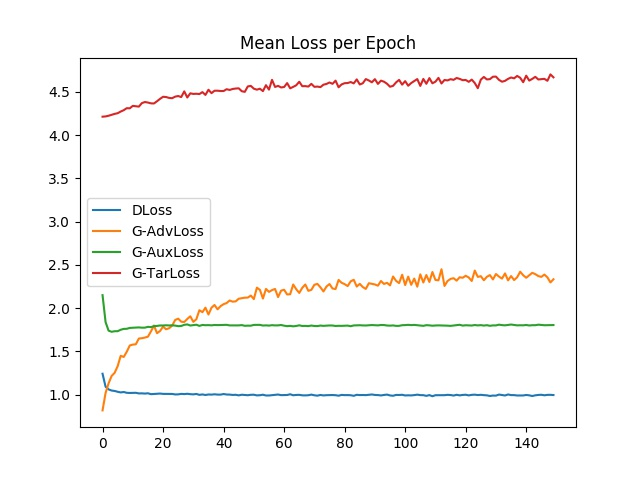
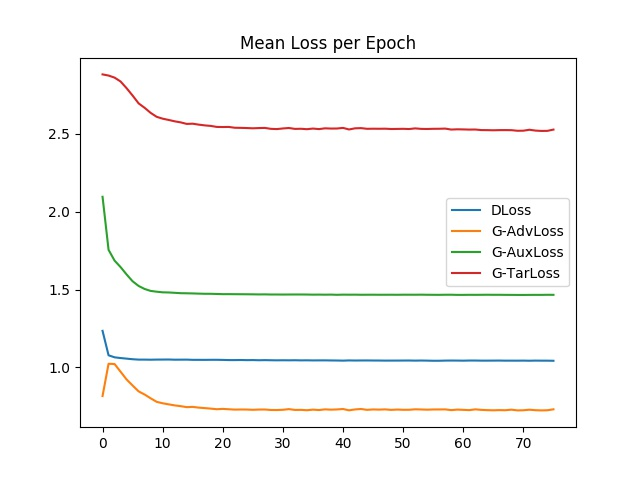
Added argparsing to utils, various other changes.

diff --git a/training/ATACGAN_MNIST.py b/training/ATACGAN_MNIST.py
@@ -23,16 +23,15 @@ from models import LeNet5
 
 
 # Argument Parsing
-
-parser = argparse.ArgumentParser("ATAC-GAN MNIST")
+#TBD
 
 
 # Config
 
 cuda = True
 
-n_epochs=150
-batch_size=32
+n_epochs=500
+batch_size=24
 lr=0.0002
 b1=0.5
 b2=0.999
@@ -40,37 +39,38 @@ latent_dim=200
 n_classes=10
 img_size=28
 channels=1
-save_interval=500
-print_interval=500
-sample_interval=500
+save_interval=2000
+print_interval=2000
+sample_interval=2000
 
 output_dir="../output/MNIST-" + str(torch.random.initial_seed())
 
 d_real_loss_coeff = 0.7
 d_fake_loss_coeff = 0.3
 
-g_adv_loss_coeff = 2
+g_adv_loss_coeff = 3
 g_aux_loss_coeff = 1
 g_tar_loss_coeff = 1
 
-g_tar_loss_sigm_scalar = 10
+g_tar_loss_adv_sigm_scalar = 50
+g_tar_loss_aux_sigm_scalar = 50
 
 # target classifier conditional constants
-adv_loss_threshold = 0.8
-aux_loss_threshold = 1.47
+adv_loss_threshold = 1.12
+aux_loss_threshold = 1.475
 
 
 # Util
 
 def load_LeNet5():
     net = LeNet5()
-    
+
     # remove map location = cpu if using cuda
     net.load_state_dict(torch.load("../utils/models/trained_lenet5.pkl", map_location=torch.device('cpu')))
-    
+
     # set model to eval mode so nothing is changed
     net.eval()
-    
+
     return net
 
 def init_weights(m):
@@ -80,7 +80,7 @@ def init_weights(m):
     elif classname.find("BatchNorm2d") != -1:
         torch.nn.init.normal_(m.weight.data, 1.0, 0.02)
         torch.nn.init.constant_(m.bias.data, 0.0)
-    
+
 
 # Models
 
@@ -150,7 +150,7 @@ class Discriminator(nn.Module):
         label = self.aux_layer(out)
 
         return validity, label
-    
+
 if __name__ == "__main__":
     # Loss functions
 
@@ -168,7 +168,7 @@ if __name__ == "__main__":
     discriminator.apply(init_weights)
 
     target_classifier = load_LeNet5()
-    
+
     optimizer_G = torch.optim.Adam(generator.parameters(), lr=lr, betas=(b1, b2))
     optimizer_D = torch.optim.Adam(discriminator.parameters(), lr=lr, betas=(b1, b2))
 
@@ -183,15 +183,15 @@ if __name__ == "__main__":
         target_classifier = target_classifier.cuda()
         target_classifier_loss = target_classifier_loss.cuda()
 
-    
+
     # Set max value for tar loss
+
     pred_label = Variable(FloatTensor([[-99999, 99999, 99999, 99999, 99999, 99999, 99999, 99999, 99999, 99999]]), requires_grad=False)
     tar_label = Variable(LongTensor([0]), requires_grad=False)
-    g_tar_loss_max = target_classifier_loss(F.softmax(pred_label, dim=1), tar_label) * 1.2
+    g_tar_loss_max = target_classifier_loss(F.softmax(pred_label, dim=1), tar_label)
     print(g_tar_loss_max)
-    # Set sigmoid scalar to tar_loss_max / 5 if not set (or similar)
-    #tar_loss_sigm_scalar = tar_loss_max / 5
-        
+
+
     # Configure data loader
 
     os.makedirs("../data/mnist", exist_ok=True)
@@ -213,6 +213,33 @@ if __name__ == "__main__":
 
     os.mkdir(output_dir)
     os.mkdir(output_dir + "/images")
+
+    f = open(output_dir + '/constants.txt', 'a')
+    f.write("cuda: {}\n".format(cuda))
+    f.write("batch_size: {}\n".format(batch_size))
+    f.write("lr: {}\n".format(lr))
+    f.write("adam_b1: {}\n".format(b1))
+    f.write("adam_b2: {}\n".format(b2))
+    f.write("latent_dim: {}\n".format(latent_dim))
+    f.write("n_classes: {}\n".format(n_classes))
+    f.write("img_size: {}\n".format(img_size))
+    f.write("channels: {}\n".format(channels))
+    f.write("save_interval: {}\n".format(save_interval))
+    f.write("print_interval: {}\n".format(print_interval))
+    f.write("sample_interval: {}\n".format(sample_interval))
+    f.write("output_dir: {}\n".format(output_dir))
+    f.write("d_real_loss_coeff: {}\n".format(d_real_loss_coeff))
+    f.write("d_fake_loss_coeff: {}\n".format(d_fake_loss_coeff))
+    f.write("g_adv_loss_coeff: {}\n".format(g_adv_loss_coeff))
+    f.write("g_aux_loss_coeff: {}\n".format(g_aux_loss_coeff))
+    f.write("g_tar_loss_coeff: {}\n".format(g_tar_loss_coeff))
+    f.write("g_tar_loss_adv_sigm_scalar: {}\n".format(g_tar_loss_adv_sigm_scalar))
+    f.write("g_tar_loss_aux_sigm_scalar: {}\n".format(g_tar_loss_aux_sigm_scalar))
+    f.write("g_tar_loss_max: {}\n".format(g_tar_loss_max))
+    f.write("adv_loss_threshold: {}\n".format(adv_loss_threshold))
+    f.write("aux_loss_threshold: {}\n".format(aux_loss_threshold))
+    f.close()
+
     f = open(output_dir + '/log.csv', 'a')
     log_writer = csv.writer(f, delimiter=',')
     log_writer.writerow(['Epoch', 'Batch', 'DLoss', 'DRealLoss', 'DRealAdvLoss', 'DRealAuxLoss', 'DFakeLoss', 'DFakeAdvLoss', 'DFakeAuxLoss', 'DValidReal', 'DValidFake', 'DAccReal', 'DAccFake', 'TAcc', 'GLoss', 'GAdvLoss', 'GAuxLoss', 'GTarLossRaw', 'GTarLossWeight', 'GTarLoss'])
@@ -248,12 +275,12 @@ if __name__ == "__main__":
     running_g_tar_loss = 0.0
     running_g_tar_loss_weight = 0.0
     running_g_loss = 0.0
-    
-    
+
+
     # Train
-    
+
     for epoch in range(n_epochs):
-        
+
         for i, (imgs, labels) in enumerate(dataloader):
 
             batch_size = imgs.shape[0]
@@ -289,9 +316,9 @@ if __name__ == "__main__":
             g_adv_loss = g_adv_loss_coeff * adversarial_loss(d_validities, valid)
             g_aux_loss = g_aux_loss_coeff * auxiliary_loss(d_pred_labels, g_labels)
             g_tar_loss_raw = target_classifier_loss(t_pred_labels, g_target_labels)
-            g_tar_loss_weight = torch.sigmoid(g_tar_loss_sigm_scalar * (-g_adv_loss + adv_loss_threshold - g_aux_loss + aux_loss_threshold))
+            g_tar_loss_weight = torch.sigmoid(g_tar_loss_adv_sigm_scalar * (-g_adv_loss + adv_loss_threshold)) * torch.sigmoid(g_tar_loss_aux_sigm_scalar * (-g_aux_loss + aux_loss_threshold))
             g_tar_loss = g_tar_loss_coeff * g_tar_loss_max * (1 - g_tar_loss_weight) + g_tar_loss_weight * g_tar_loss_raw
-            
+
             # Total generator loss
             g_loss = g_adv_loss + g_aux_loss + g_tar_loss
             g_loss.backward()
@@ -320,12 +347,12 @@ if __name__ == "__main__":
             d_loss = d_real_loss_coeff * d_real_loss + d_fake_loss_coeff * d_fake_loss
             d_loss.backward()
             optimizer_D.step()
-            
-            
+
+
             # =========
             #  Logging
             # =========
-            
+
             # Track generator loss components
             running_g_adv_loss += g_adv_loss.item()
             running_g_aux_loss += g_aux_loss.item()
@@ -333,11 +360,11 @@ if __name__ == "__main__":
             running_g_tar_loss += g_tar_loss.item()
             running_g_tar_loss_weight += g_tar_loss_weight
             running_g_loss += g_loss.item()
-            
+
             # Track target accuracy
-            t_acc = np.mean(np.argmax(t_pred_labels.detach().cpu().numpy()) == g_labels.detach().cpu().numpy())
+            t_acc = np.mean(np.argmax(t_pred_labels.detach().cpu().numpy(), axis=1) == g_labels.detach().cpu().numpy())
             running_t_acc += t_acc
-            
+
             # Track discriminator loss
             running_d_real_loss += d_real_loss.item()
             running_d_fake_loss += d_fake_loss.item()
@@ -346,38 +373,38 @@ if __name__ == "__main__":
             running_d_adv_loss_fake += d_adv_loss_fake.item()
             running_d_aux_loss_fake += d_aux_loss_fake.item()
             running_d_loss += d_loss.item()
-            
+
             # Track dicriminator output
             d_validity_fake = np.mean(d_validities.detach().cpu().numpy())
             running_d_fake_validity += d_validity_fake
             d_validity_real = np.mean(real_pred.detach().cpu().numpy())
             running_d_real_validity += d_validity_real
-            
+
             # Track discriminator-classifier accuracy
-            d_acc_real = np.mean(np.argmax(real_aux.detach().cpu().numpy()) == labels.detach().cpu().numpy())
-            d_acc_fake = np.mean(np.argmax(fake_aux.detach().cpu().numpy()) == g_labels.detach().cpu().numpy())
+            d_acc_real = np.mean(np.argmax(real_aux.detach().cpu().numpy(), axis=1) == labels.detach().cpu().numpy())
+            d_acc_fake = np.mean(np.argmax(fake_aux.detach().cpu().numpy(), axis=1) == g_labels.detach().cpu().numpy())
             running_d_acc_real += d_acc_real
             running_d_acc_fake += d_acc_fake
 
             # Write to log file
-            log_writer.writerow([epoch, i, d_loss.item(), d_real_loss.item(), d_adv_loss_real.item(), d_aux_loss_real.item(), d_fake_loss.item(), d_adv_loss_fake.item(), d_aux_loss_fake.item(), d_validity_real, d_validity_fake, 100*d_acc_real, 100*d_acc_fake, 100*t_acc, g_loss.item(), g_adv_loss.item(), g_aux_loss.item(), g_tar_loss_raw.item(), g_tar_loss_weight, g_tar_loss.item()])
+            log_writer.writerow([epoch, i, d_loss.item(), d_real_loss.item(), d_adv_loss_real.item(), d_aux_loss_real.item(), d_fake_loss.item(), d_adv_loss_fake.item(), d_aux_loss_fake.item(), d_validity_real, d_validity_fake, 100*d_acc_real, 100*d_acc_fake, 100*t_acc, g_loss.item(), g_adv_loss.item(), g_aux_loss.item(), g_tar_loss_raw.item(), g_tar_loss_weight.item(), g_tar_loss.item()])
 
-            
+
             batches_done = epoch * len(dataloader) + i
-            
+
             # Save models
             if batches_done % save_interval == 0:
                 # Saves weights
                 torch.save(generator.state_dict(), output_dir + '/G')
                 torch.save(discriminator.state_dict(), output_dir + '/D')
-                
+
             # Print information
             if batches_done % print_interval == 0:
                 #TEMP
-                print("d_acc_real", d_acc_real)
-                print("d_acc_fake", d_acc_fake)
+                #print("d_acc_real", d_acc_real)
+                #print("d_acc_fake", d_acc_fake)
                 #END
-                
+
                 p = float(print_interval)
                 print("==============================")
                 print("Epoch %d/%d, Batch %d/%d" % (epoch, n_epochs, i, len(dataloader)))
@@ -388,7 +415,7 @@ if __name__ == "__main__":
                 print("G Loss: %f (Adv: %f, Aux: %f, Tar: %f)" % (running_g_loss / p, running_g_adv_loss / p, running_g_aux_loss  / p, running_g_tar_loss / p))
                 print("   Tar Raw: %f, Tar Weight: %f" % (running_g_tar_loss_raw / p, running_g_tar_loss_weight / p))
                 print("Tar Acc: %.2f%%" % (running_t_acc * 100 / p))
-                
+
                 running_d_real_validity = 0.0
                 running_d_fake_validity = 0.0
                 running_d_adv_loss_real = 0.0
@@ -407,7 +434,7 @@ if __name__ == "__main__":
                 running_g_tar_loss = 0.0
                 running_g_tar_loss_weight = 0.0
                 running_g_loss = 0.0
-                
+
             # Save sample images
             if batches_done % sample_interval == 0:
                 sample_image(n_row=10, batches_done=batches_done)

diff --git a/utils/test_MNIST_model_attack.py b/utils/test_MNIST_model_attack.py
@@ -1,0 +1,54 @@
+from sys import path
+import os
+path.append("../training")
+import ATACGAN_MNIST as atacgan
+import torch
+from torch.autograd import Variable
+import numpy as np
+import matplotlib.pyplot as plt
+import argparse
+
+parser = argparse.ArgumentParser("Test MNIST Model Attack Performance")
+parser.add_argument("--model_dir", type=str, help="Directory with models G and D present")
+parser.add_argument("--test_size", type=int, default=1000, help="Number of images to be generated and filtered")
+args = parser.parse_args()
+
+if (args.model_dir[len(args.model_dir)-1] != '/'):
+    args.model_dir += '/'
+if (not os.path.isdir(args.model_dir+"results")):
+    os.mkdir(args.model_dir+"results")
+
+FloatTensor = torch.FloatTensor
+LongTensor = torch.LongTensor
+
+generator = atacgan.Generator()
+generator.load_state_dict(torch.load(args.model_dir + "G", map_location=torch.device('cpu')))
+discriminator = atacgan.Discriminator()
+discriminator.load_state_dict(torch.load(args.model_dir + "D", map_location=torch.device('cpu')))
+
+z = Variable(FloatTensor(np.random.normal(0, 1, (args.test_size, atacgan.latent_dim))))
+gen_labels = Variable(LongTensor(np.random.randint(0, atacgan.n_classes, args.test_size)), requires_grad=False)
+target_labels = Variable(LongTensor(np.random.randint(0, atacgan.n_classes, args.test_size)), requires_grad=False)
+
+gen_imgs = generator(z, gen_labels, target_labels)
+target_classifier = atacgan.load_LeNet5().cpu()
+pred_labels = target_classifier(gen_imgs)
+validity, dpred_labels = discriminator(gen_imgs)
+
+gen = gen_imgs.cpu().detach().numpy()
+preds = pred_labels.data.cpu().numpy()
+true = gen_labels.data.cpu().numpy()
+v = validity.data.cpu().numpy()
+dpred = dpred_labels.data.cpu().numpy()
+indices = []
+for i in range(len(true)):
+    if np.argmax(preds[i]) != true[i] and np.argmax(dpred[i]) == true[i]:
+        indices.append(i)
+        plt.title("Gen Label: " + str(true[i]) + "; LeNet Label: " + str(np.argmax(preds[i])))
+        plt.xlabel("Discriminator Valid: " + str(v[i]))
+        plt.imshow(gen[i][0], cmap='gray')
+        plt.savefig(args.model_dir + "results/" + str(i) + ".png")
+
+# NOTE: Could potentially only take the samples with the top half validity scores
+
+print("%d / %d (%.1f) Adversarial" % (len(indices), args.test_size, len(indices) * 100 / args.test_size))

diff --git a/utils/gen_loss_graph.py b/utils/gen_loss_graph.py
@@ -1,19 +1,29 @@
+import argparse
 import matplotlib.pyplot as plt
 import pandas as pd
 
-df = pd.read_csv('../output/MNIST-2071195062666636625/log.csv')
+parser = argparse.ArgumentParser("Generate Graphs from Model Training Data")
+parser.add_argument('--csv_dir', type=str, help='path to the folder that the csv log is in')
+args = parser.parse_args()
+
+if (args.csv_dir[len(args.csv_dir)-1] != '/'):
+    args.csv_dir += '/'
+
+df = pd.read_csv(args.csv_dir + '/log.csv')
 
 df = df.groupby('Epoch').agg({
         'DLoss': ['mean'],
         'GAdvLoss': ['mean'],
         'GAuxLoss': ['mean'],
-        'GTarLoss': ['mean']
+        'GTarLoss': ['mean'],
+        'GTarLossRaw': ['mean']
 })
 
 plt.plot(df.index, df['DLoss'], label='DLoss')
 plt.plot(df.index, df['GAdvLoss'], label='G-AdvLoss')
 plt.plot(df.index, df['GAuxLoss'], label='G-AuxLoss')
 plt.plot(df.index, df['GTarLoss'], label='G-TarLoss')
+plt.plot(df.index, df['GTarLossRaw'], label='G-TarLossRaw')
 plt.title('Mean Loss per Epoch')
 plt.legend()
-plt.savefig('test.jpg')
+plt.savefig(args.csv_dir + "/training_graph")
